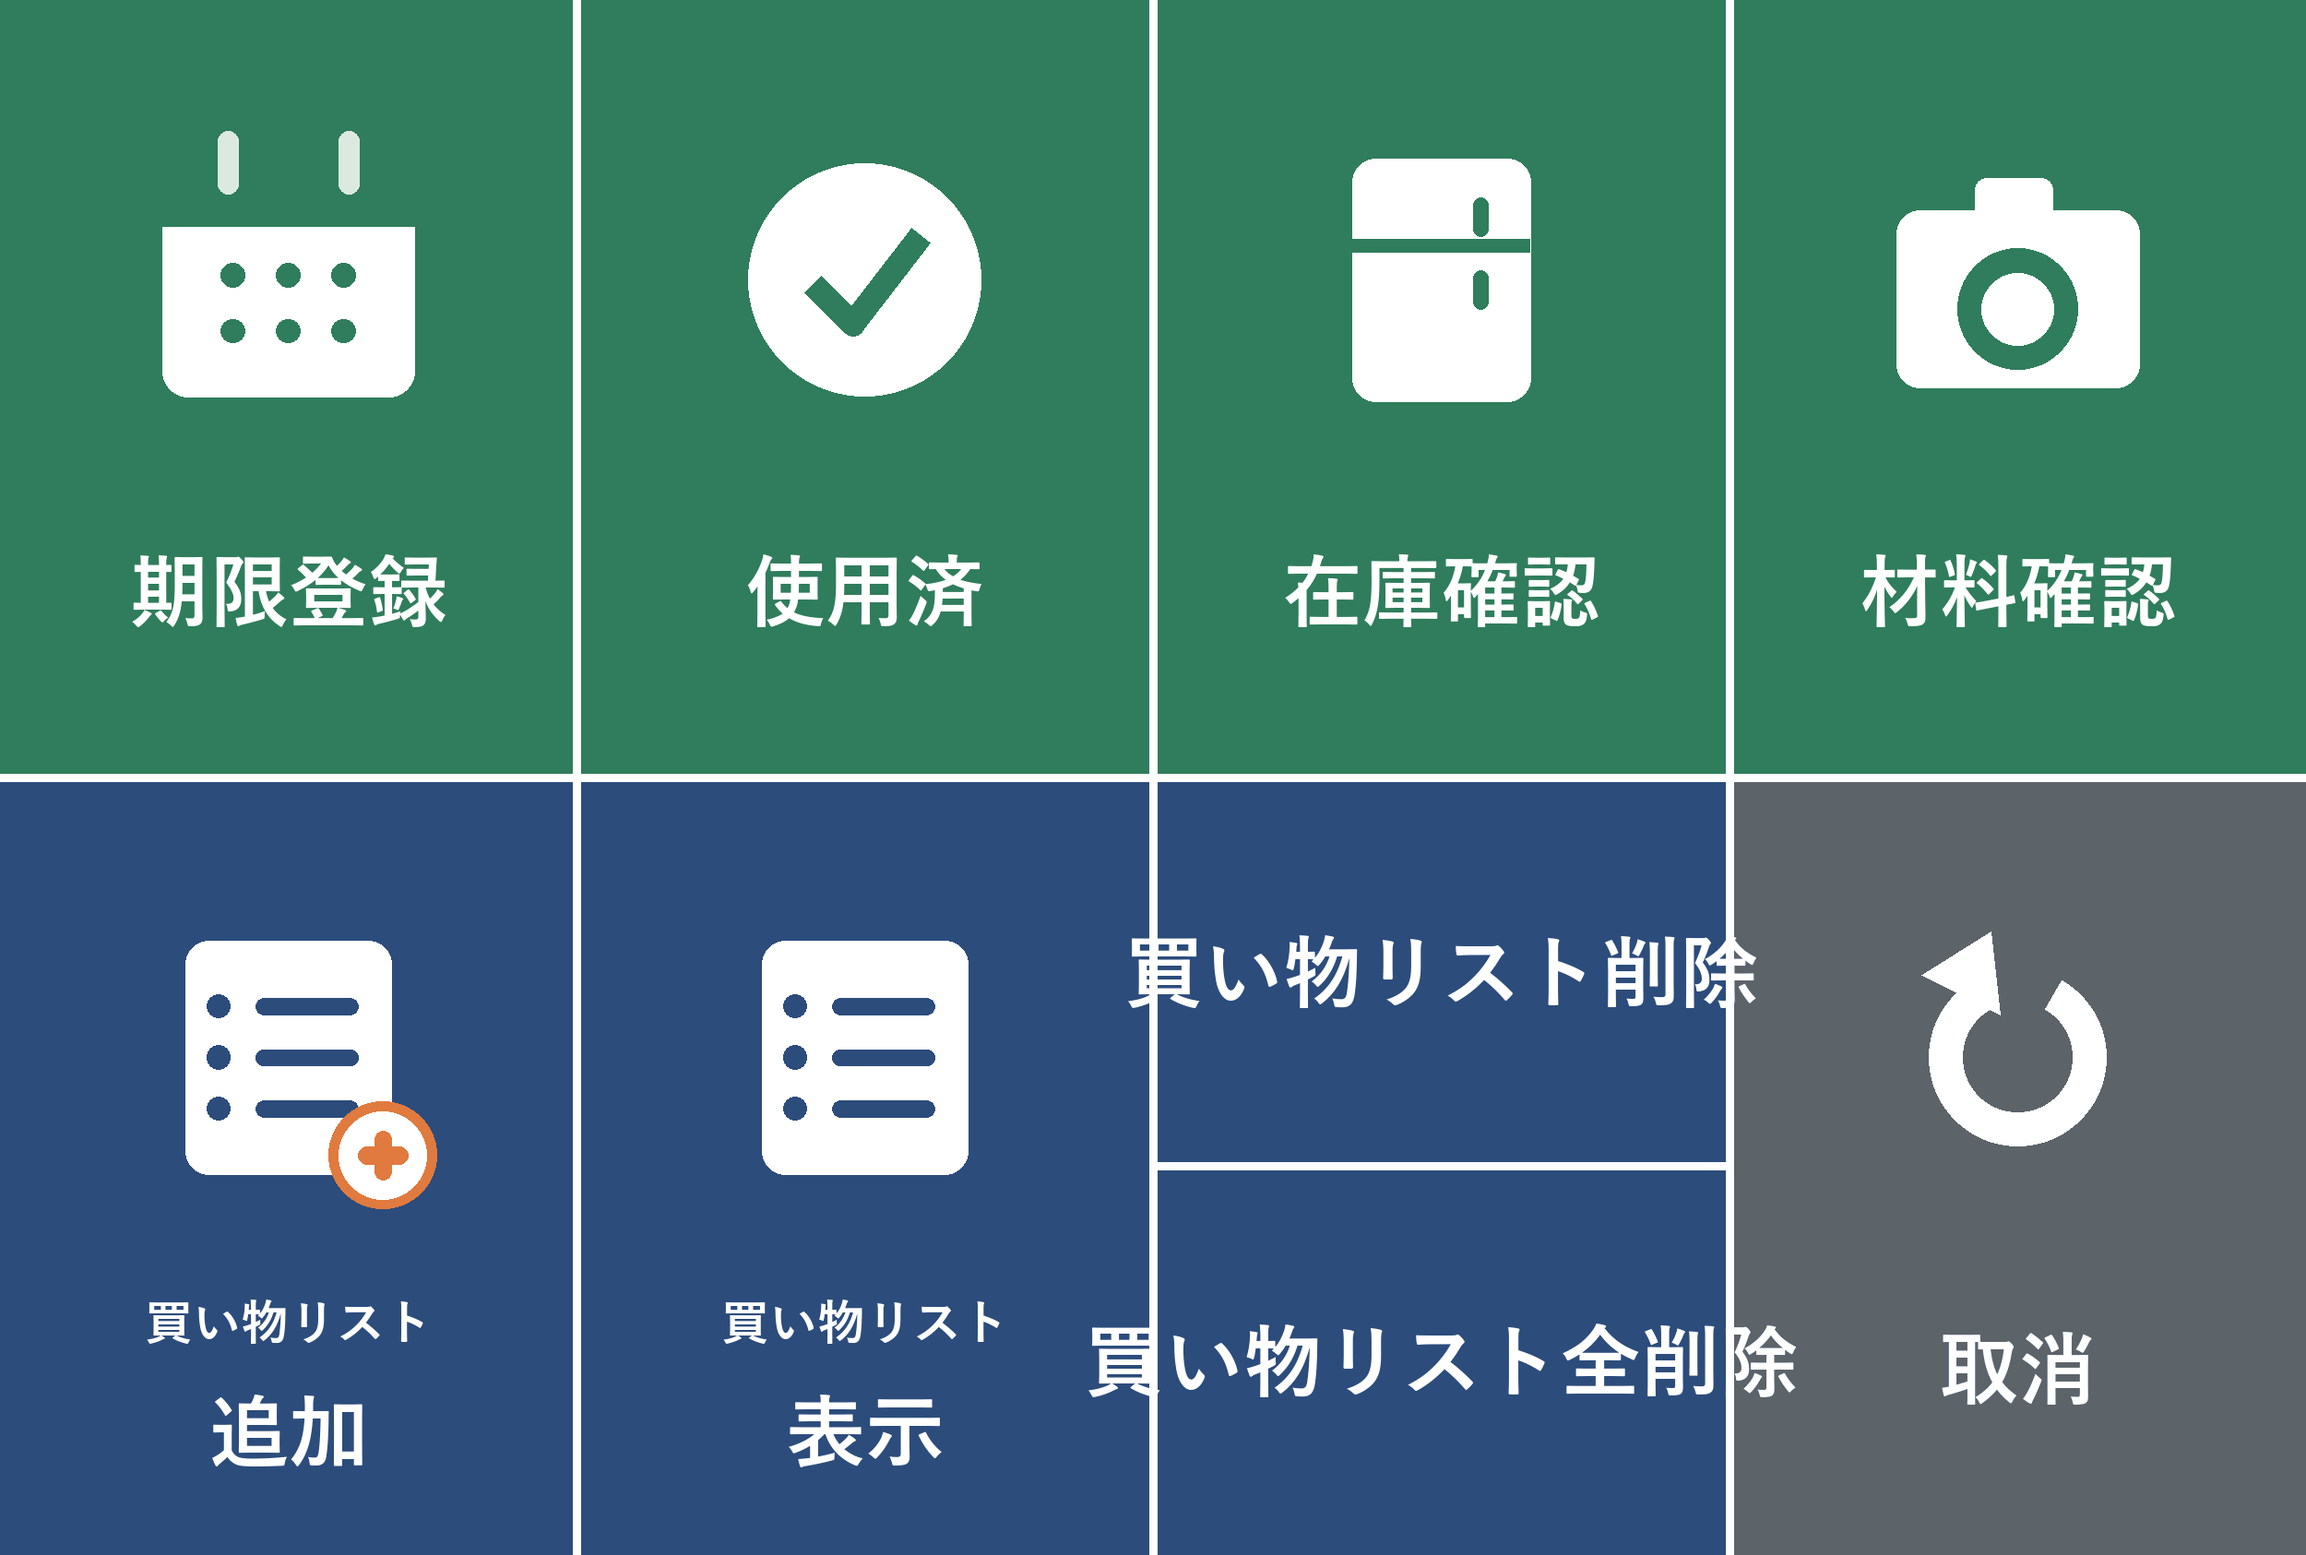
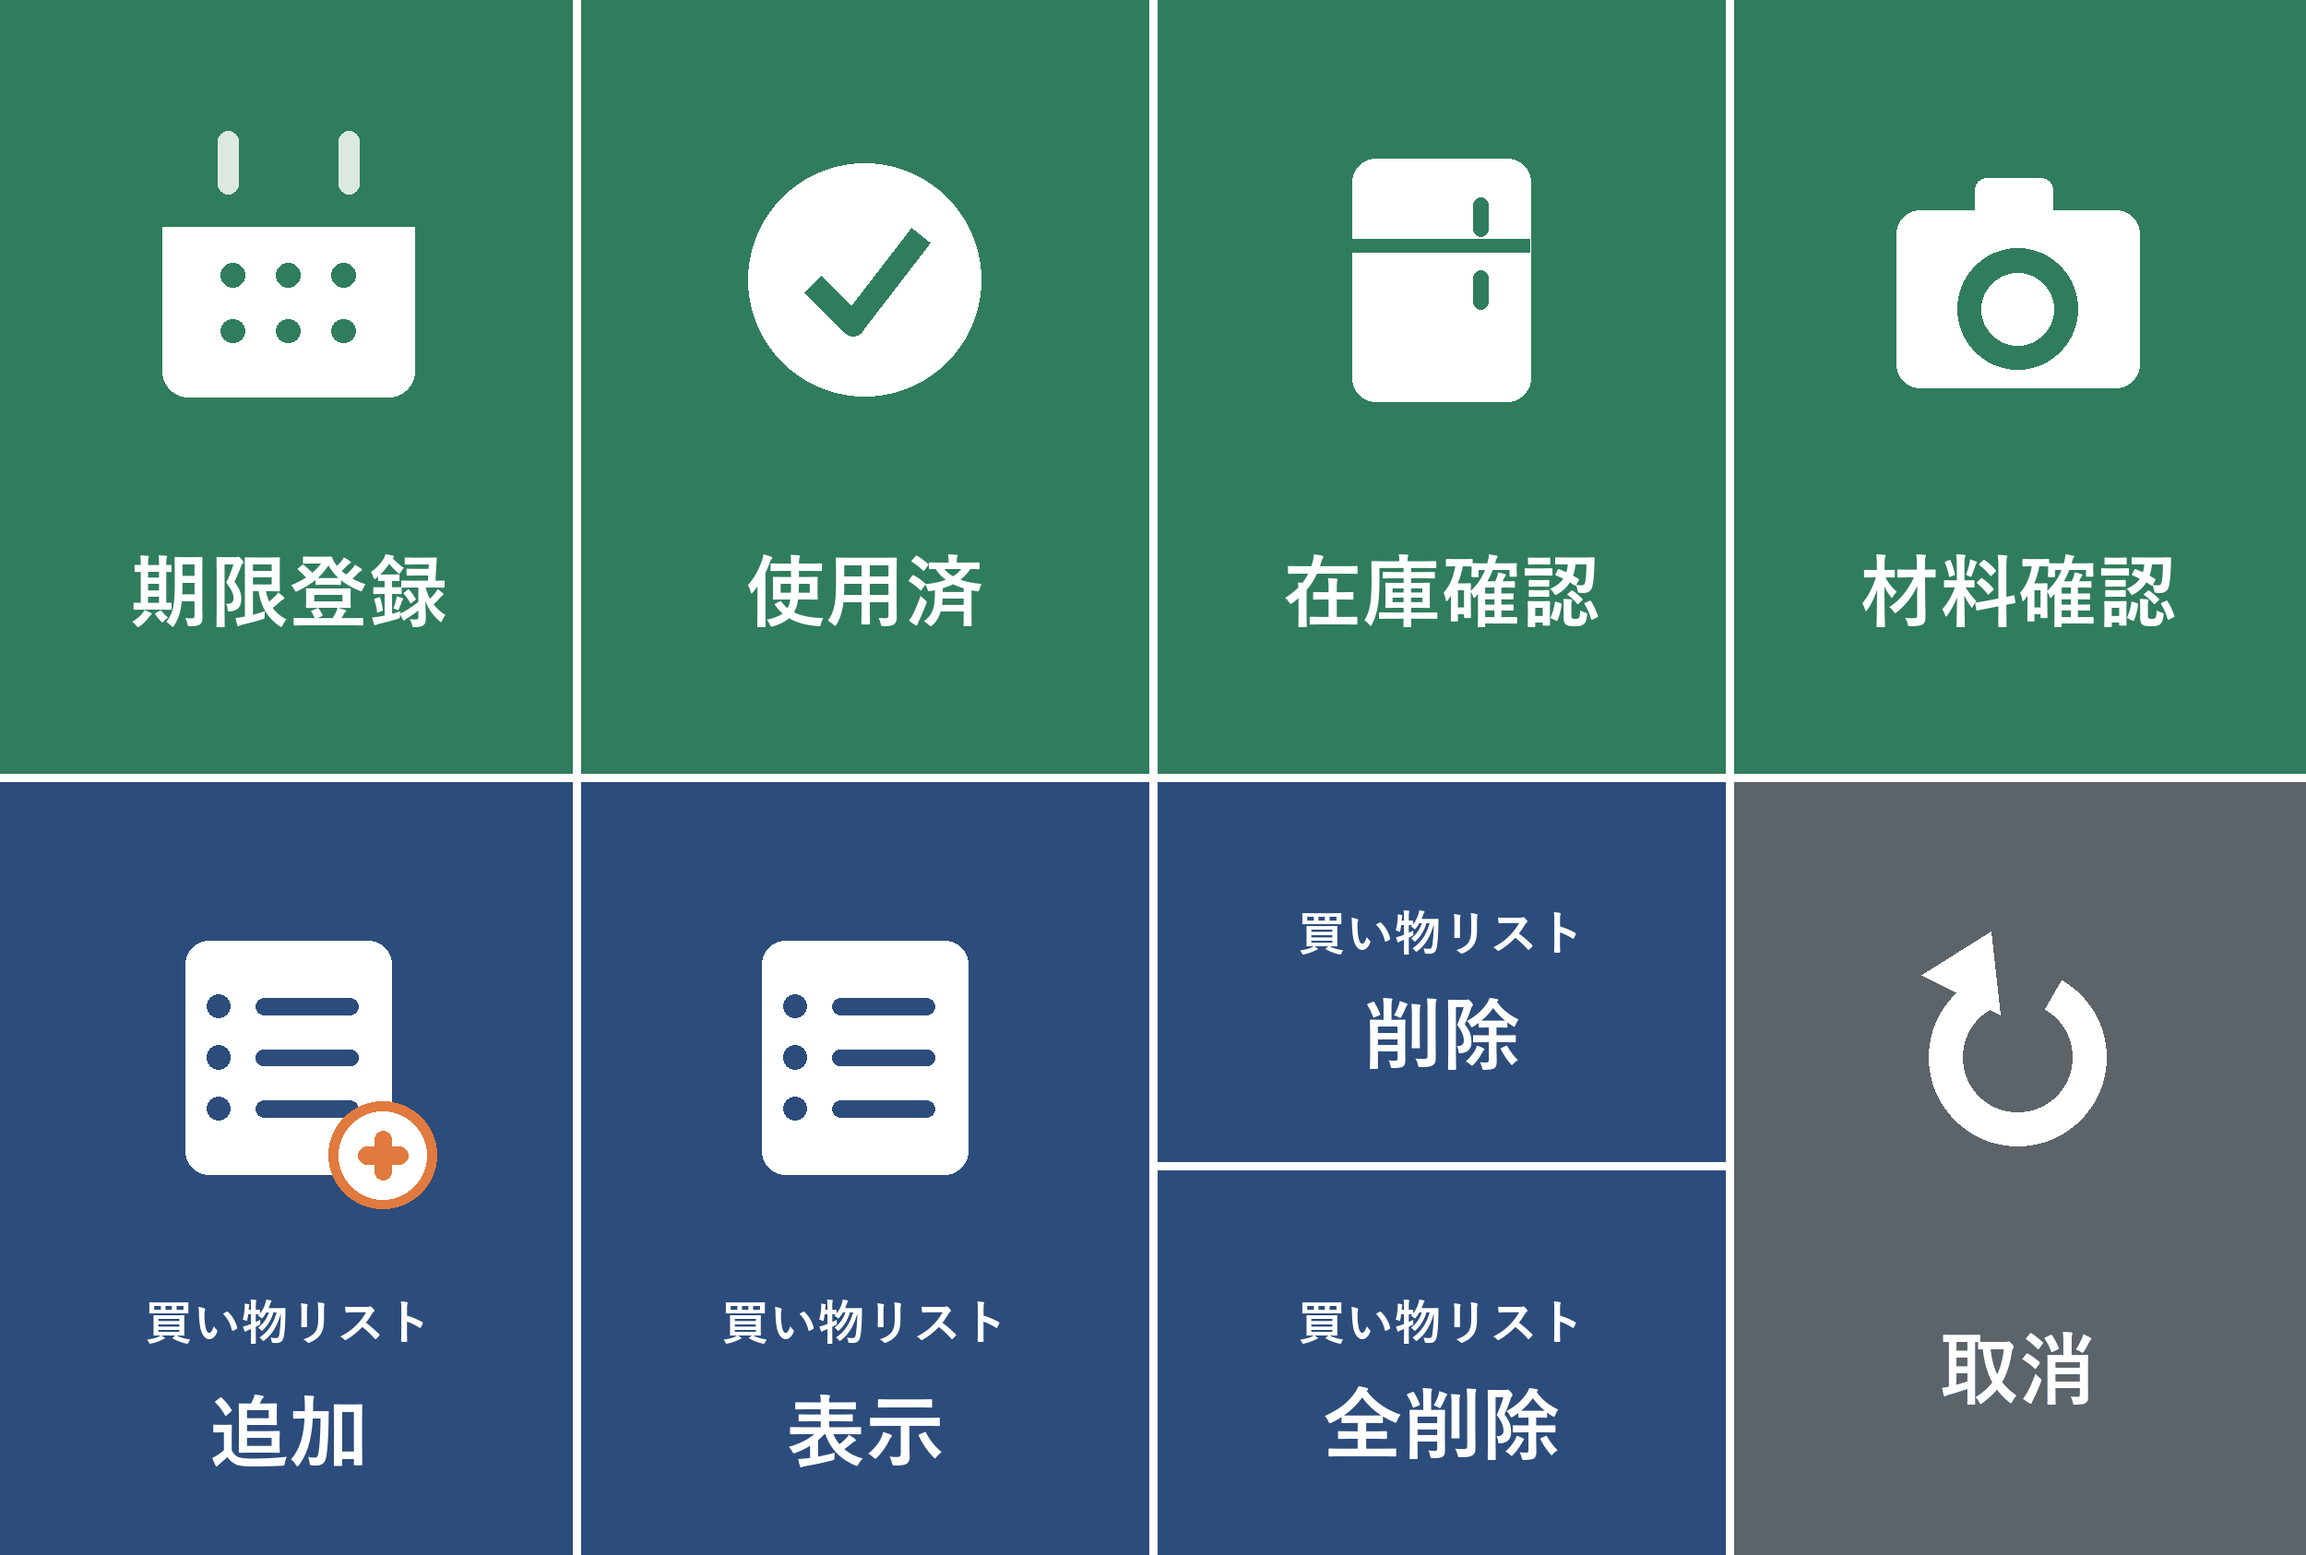
買い物リスト削除/全削除ボタンの文字がはみ出す問題を修正
TEXT_CELLS が「買い物リスト削除」を1行で描画していたため625px幅に
収まらず隣の列にはみ出していた。他のボタンと同じく「買い物リスト」
＋「削除」/「全削除」の2行表示に変更。

Changed region(s): [[0.468, 0.8327, 0.78, 0.9561], [0.468, 0.586, 0.78, 0.7094]]

diff --git a/04-food-expiry/richmenu.py b/04-food-expiry/richmenu.py
@@ -157,11 +157,13 @@ ICON_CELLS = [
     (3, BOT_Y, BOT_H, "取消",     None,      icon_undo,     GRAY,  GRAY_DARK),
 ]
 
-# 文字だけのボタン（アイコンなし）。削除／全削除は上下に積むので、
-# 押し間違えても取消で戻せる前提で同じ配色にしている
+# 文字だけのボタン（アイコンなし）。「買い物リスト」の1行だけだと
+# 幅625pxに収まらず隣の列にはみ出すので、他のボタンと同じく
+# 「買い物リスト」＋「削除」/「全削除」の2行に分ける。削除／全削除は
+# 上下に積むので、押し間違えても取消で戻せる前提で同じ配色にしている
 TEXT_CELLS = [
-    (2, BOT_Y,            HALF_H,  "買い物リスト削除", BLUE),
-    (2, BOT_Y + HALF_H,   HALF_H2, "買い物リスト全削除", BLUE),
+    (2, BOT_Y,            HALF_H,  "削除",   BLUE),
+    (2, BOT_Y + HALF_H,   HALF_H2, "全削除", BLUE),
 ]
 
 for col, y, h, title, sub, icon, bg, fg in ICON_CELLS:
@@ -174,10 +176,11 @@ for col, y, h, title, sub, icon, bg, fg in ICON_CELLS:
     else:
         center(x + w / 2, y + h * 0.76, title, label_font, WHITE)
 
-for col, y, h, title, bg in TEXT_CELLS:
+for col, y, h, sub, bg in TEXT_CELLS:
     x, w = COLS[col]
     d.rectangle([x, y, x + w, y + h], fill=bg)
-    center(x + w / 2, y + h / 2, title, label_font, WHITE)
+    center(x + w / 2, y + h * 0.40, "買い物リスト", sub_font, WHITE)
+    center(x + w / 2, y + h * 0.66, sub, label_font, WHITE)
 
 # 区切り線
 for x, w in COLS[1:]:
